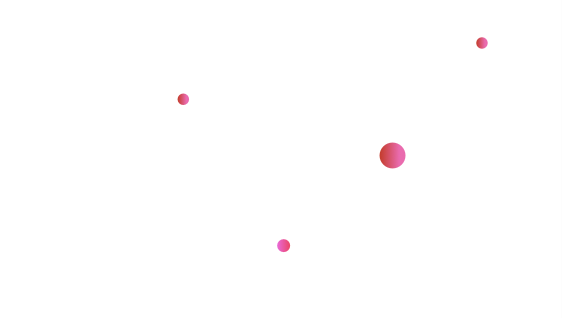
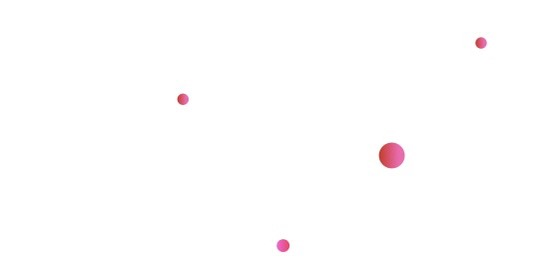
update Goodbye button

diff --git a/lib/questionnaire/submit_confirmation.dart b/lib/questionnaire/submit_confirmation.dart
@@ -4,23 +4,23 @@ import 'package:flutter_bloc/flutter_bloc.dart';
 import 'package:shared_preferences/shared_preferences.dart';
 
 import 'package:msfatigue/features/bloc/survey_bloc.dart';
-import 'package:msfatigue/questionnaire/suvey_completed.dart';
 import 'package:msfatigue/utils/create_survey.dart';
 import 'package:msfatigue/utils/pod.dart';
+import 'package:msfatigue/welcome.dart';
 import 'package:msfatigue/widgets/image/image.dart';
 import 'package:msfatigue/widgets/drawer/side_drawer.dart';
 
 // Assume _scaffoldKey is defined globally for this widget.
-
-final GlobalKey<ScaffoldState> _scaffoldKey = GlobalKey<ScaffoldState>();
 
 class SubmitConfirmation extends StatelessWidget {
   const SubmitConfirmation({super.key});
 
   @override
   Widget build(BuildContext context) {
+    final GlobalKey<ScaffoldState> scaffoldKey = GlobalKey<ScaffoldState>();
+
     return Scaffold(
-      key: _scaffoldKey,
+      key: scaffoldKey,
       backgroundColor: Colors.white,
       appBar: AppBar(
         backgroundColor: Colors.white,
@@ -37,21 +37,25 @@ class SubmitConfirmation extends StatelessWidget {
           size: 50,
         ),
       ),
-      drawer: SideDrawer(scaffoldKey: _scaffoldKey),
+      drawer: SideDrawer(scaffoldKey: scaffoldKey),
       body: SingleChildScrollView(
         child: Column(
           children: [
             Image.asset(
               'assets/images/bottom_dot_four.png',
-              height: 260,
+              height: 240,
             ),
-            const Text(
-              "Are you ready to submit?",
-              style: TextStyle(
-                fontSize: 28,
-                color: Colors.black,
+            Padding(
+              padding: const EdgeInsets.fromLTRB(10.0, 0.0, 10.0, 0.0),
+              child: const Text(
+                "Thank you for your participation.\n\n"
+                "Any questions you have already answered will be saved until Midnight. You can come back before then to complete the survey. To continue now, tap the PREVIOUS button. Otherwise tap GOODBYE.",
+                style: TextStyle(
+                  fontSize: 18,
+                  color: Colors.black,
+                ),
+                textAlign: TextAlign.left,
               ),
-              textAlign: TextAlign.center,
             ),
             Image.asset(
               'assets/images/bottom_dot_five.png',
@@ -122,13 +126,13 @@ class SubmitConfirmation extends StatelessWidget {
                         Navigator.push(
                           context,
                           MaterialPageRoute(
-                            builder: (context) => SurveyCompleted(),
+                            builder: (context) => WelcomeScreen(),
                           ),
                         );
                       }
                     },
                     icon: const Text(
-                      "    Submit",
+                      "    Goodbye",
                       style: TextStyle(color: Colors.pink),
                     ),
                     label: const Icon(

diff --git a/lib/questionnaire/welcome_back_final.dart b/lib/questionnaire/welcome_back_final.dart
@@ -6,8 +6,6 @@ import 'package:gap/gap.dart';
 import 'package:msfatigue/widgets/drawer/side_drawer.dart';
 import 'package:msfatigue/widgets/image/image.dart';
 
-final GlobalKey<ScaffoldState> _scaffoldKey = GlobalKey<ScaffoldState>();
-
 class WelcomeBackFinalPage extends StatefulWidget {
   const WelcomeBackFinalPage({super.key});
 
@@ -18,13 +16,15 @@ class WelcomeBackFinalPage extends StatefulWidget {
 class _WelcomeBackFinalPageState extends State<WelcomeBackFinalPage> {
   @override
   Widget build(BuildContext context) {
+    final GlobalKey<ScaffoldState> scaffoldKey = GlobalKey<ScaffoldState>();
+
     DateTime today = DateTime.now();
     String formattedDate = DateFormat('d MMMM yyyy hh:mm a').format(today);
 
     String nextAvailableDate = DateFormat('d MMMM yyyy').format(today);
 
     return Scaffold(
-      key: _scaffoldKey,
+      key: scaffoldKey,
       backgroundColor: Colors.white,
       appBar: AppBar(
         backgroundColor: Colors.white,
@@ -41,7 +41,7 @@ class _WelcomeBackFinalPageState extends State<WelcomeBackFinalPage> {
           size: 50,
         ),
       ),
-      drawer: SideDrawer(scaffoldKey: _scaffoldKey),
+      drawer: SideDrawer(scaffoldKey: scaffoldKey),
       body: Padding(
         padding: const EdgeInsets.fromLTRB(0.0, 16.0, 0.0, 16.0),
         child: Center(

diff --git a/lib/welcome.dart b/lib/welcome.dart
@@ -25,10 +25,10 @@ class WelcomeScreen extends StatefulWidget {
 }
 
 class _WelcomeScreenState extends State<WelcomeScreen> {
-  final GlobalKey<ScaffoldState> _scaffoldKey = GlobalKey<ScaffoldState>();
   String? preferredName;
   String? username;
   String? password;
+  final GlobalKey<ScaffoldState> scaffoldKey = GlobalKey<ScaffoldState>();
 
   @override
   void initState() {
@@ -61,7 +61,7 @@ class _WelcomeScreenState extends State<WelcomeScreen> {
             (preferredName != null && preferredName!.isNotEmpty);
 
     return Scaffold(
-      key: _scaffoldKey,
+      key: scaffoldKey,
       backgroundColor: Colors.white,
       appBar: AppBar(
         backgroundColor: Colors.white,
@@ -72,7 +72,7 @@ class _WelcomeScreenState extends State<WelcomeScreen> {
         ),
         iconTheme: const IconThemeData(size: 50),
       ),
-      drawer: SideDrawer(scaffoldKey: _scaffoldKey),
+      drawer: SideDrawer(scaffoldKey: scaffoldKey),
       body: LayoutBuilder(
         builder: (context, constraints) {
           return SingleChildScrollView(

diff --git a/lib/questionnaire/suvey_completed.dart b/lib/questionnaire/suvey_completed.dart
@@ -5,15 +5,14 @@ import 'package:gap/gap.dart';
 import 'package:msfatigue/widgets/drawer/side_drawer.dart';
 import 'package:msfatigue/widgets/image/image.dart';
 
-final GlobalKey<ScaffoldState> _scaffoldKey = GlobalKey<ScaffoldState>();
-
 class SurveyCompleted extends StatelessWidget {
-  const SurveyCompleted({super.key});
+  final GlobalKey<ScaffoldState> scaffoldKey = GlobalKey<ScaffoldState>();
+  SurveyCompleted({super.key});
 
   @override
   Widget build(BuildContext context) {
     return Scaffold(
-      key: _scaffoldKey,
+      key: scaffoldKey,
       backgroundColor: Colors.white,
       appBar: AppBar(
         backgroundColor: Colors.white,
@@ -30,7 +29,7 @@ class SurveyCompleted extends StatelessWidget {
           size: 50,
         ),
       ),
-      drawer: SideDrawer(scaffoldKey: _scaffoldKey),
+      drawer: SideDrawer(scaffoldKey: scaffoldKey),
       body: SingleChildScrollView(
         child: Column(
           children: [

diff --git a/lib/questionnaire/consent.dart b/lib/questionnaire/consent.dart
@@ -80,7 +80,7 @@ class _ConsentScreenState extends State<ConsentScreen> {
                             child: GestureDetector(
                               onTap: () {
                                 // Navigate to your dummy sheet screen.
-                                
+
                                 Navigator.push(
                                   context,
                                   MaterialPageRoute(
